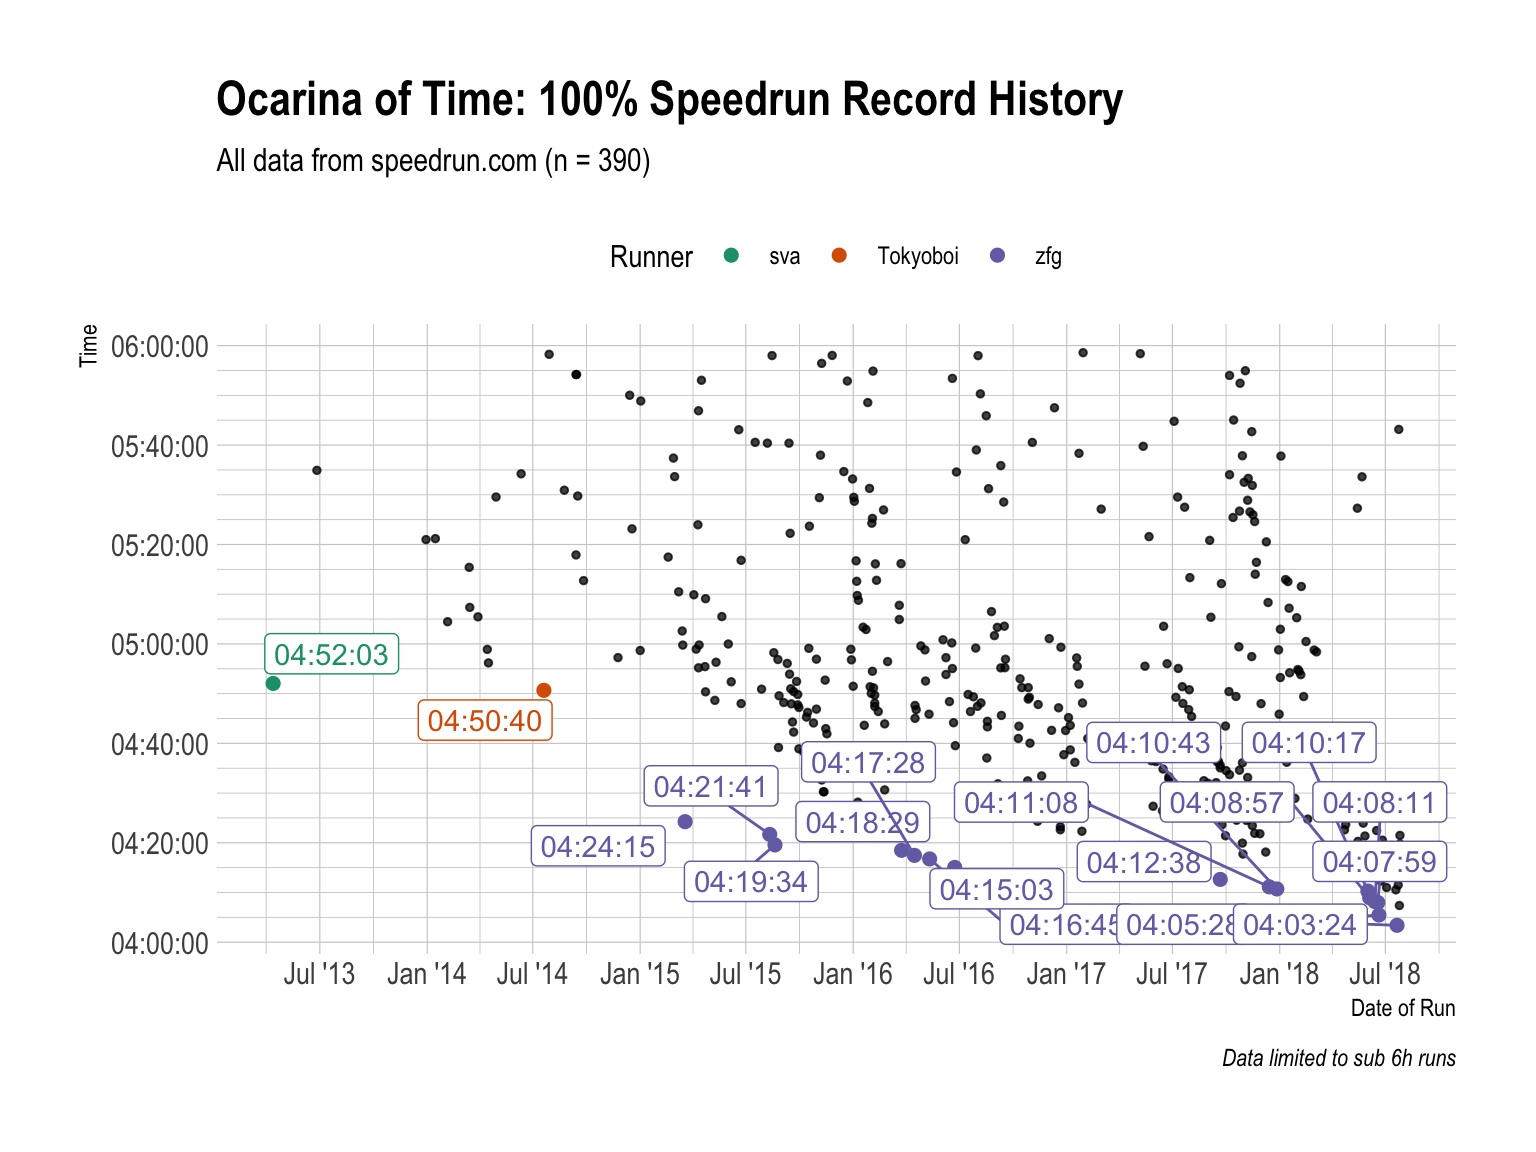
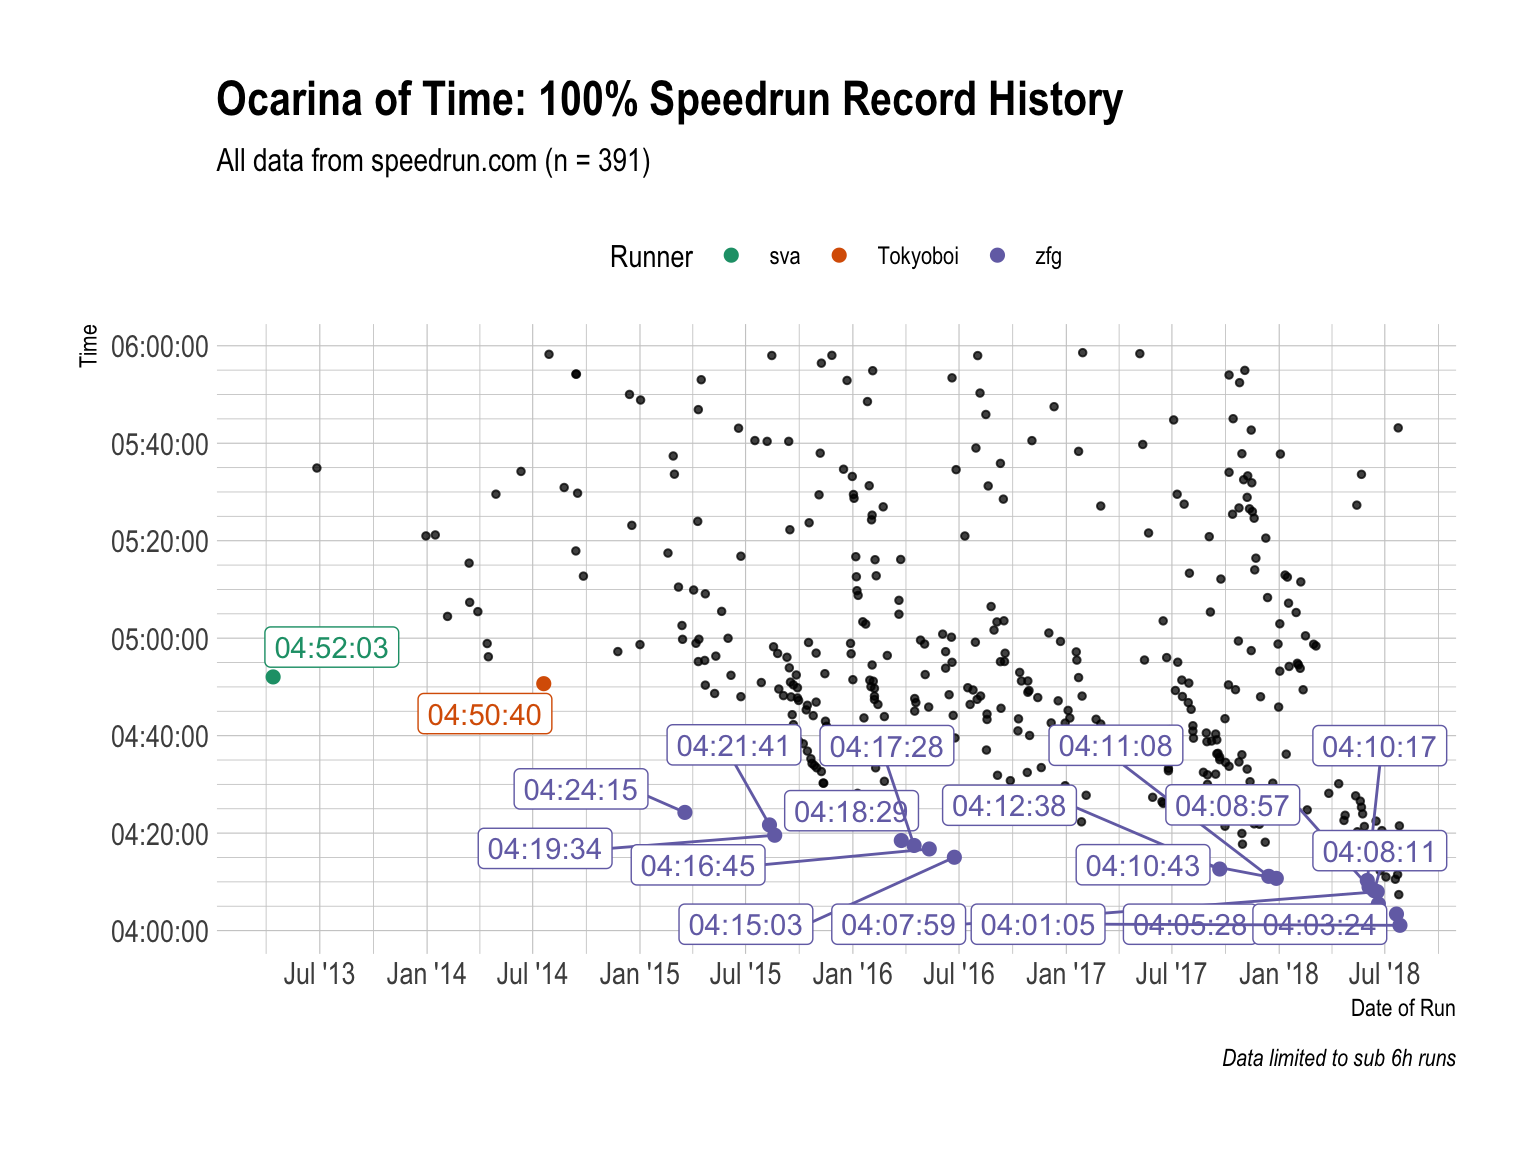
Rebuild everything

diff --git a/docs/articles/ocarina-of-time-100-.html b/docs/articles/ocarina-of-time-100-.html
@@ -134,26 +134,26 @@
 <a class="sourceLine" id="cb3-4" data-line-number="4">oot100 &lt;-<span class="st"> </span><span class="kw"><a href="../reference/get_runs.html">get_runs</a></span>(<span class="dt">game =</span> <span class="st">"j1l9qz1g"</span>, <span class="dt">category =</span> <span class="st">"q255jw2o"</span>, <span class="dt">max =</span> <span class="ot">Inf</span>)</a></code></pre></div>
 <p>Note that I’m useing <code>max = Inf</code> to make sure I get <em>all</em> the runs.</p>
 <div class="sourceCode" id="cb4"><pre class="sourceCode r"><code class="sourceCode r"><a class="sourceLine" id="cb4-1" data-line-number="1"><span class="kw">str</span>(oot100)</a>
-<a class="sourceLine" id="cb4-2" data-line-number="2"><span class="co">#&gt; Classes 'tbl_df', 'tbl' and 'data.frame':    498 obs. of  22 variables:</span></a>
-<a class="sourceLine" id="cb4-3" data-line-number="3"><span class="co">#&gt;  $ id             : chr  "mr8k6k2y" "z51jrdnm" "z03591ez" "yvj63ney" ...</span></a>
-<a class="sourceLine" id="cb4-4" data-line-number="4"><span class="co">#&gt;  $ weblink        : chr  "https://www.speedrun.com/oot/run/mr8k6k2y" "https://www.speedrun.com/oot/run/z51jrdnm" "https://www.speedrun.com/oot/run/z03591ez" "https://www.speedrun.com/oot/run/yvj63ney" ...</span></a>
+<a class="sourceLine" id="cb4-2" data-line-number="2"><span class="co">#&gt; Classes 'tbl_df', 'tbl' and 'data.frame':    499 obs. of  22 variables:</span></a>
+<a class="sourceLine" id="cb4-3" data-line-number="3"><span class="co">#&gt;  $ id             : chr  "y43wqn2z" "mr8k6k2y" "z51jrdnm" "z03591ez" ...</span></a>
+<a class="sourceLine" id="cb4-4" data-line-number="4"><span class="co">#&gt;  $ weblink        : chr  "https://www.speedrun.com/oot/run/y43wqn2z" "https://www.speedrun.com/oot/run/mr8k6k2y" "https://www.speedrun.com/oot/run/z51jrdnm" "https://www.speedrun.com/oot/run/z03591ez" ...</span></a>
 <a class="sourceLine" id="cb4-5" data-line-number="5"><span class="co">#&gt;  $ game           : chr  "j1l9qz1g" "j1l9qz1g" "j1l9qz1g" "j1l9qz1g" ...</span></a>
 <a class="sourceLine" id="cb4-6" data-line-number="6"><span class="co">#&gt;  $ level          : logi  NA NA NA NA NA NA ...</span></a>
 <a class="sourceLine" id="cb4-7" data-line-number="7"><span class="co">#&gt;  $ category       : chr  "q255jw2o" "q255jw2o" "q255jw2o" "q255jw2o" ...</span></a>
-<a class="sourceLine" id="cb4-8" data-line-number="8"><span class="co">#&gt;  $ videos         : chr  "https://youtu.be/maLzD-Ikxoc" "https://youtu.be/wYs40xjSptY" "https://www.youtube.com/watch?v=BnUVK1fpxWo" "https://www.twitch.tv/videos/288576241" ...</span></a>
+<a class="sourceLine" id="cb4-8" data-line-number="8"><span class="co">#&gt;  $ videos         : chr  "https://www.youtube.com/watch?v=8LvwzNnpKXo" "https://youtu.be/maLzD-Ikxoc" "https://youtu.be/wYs40xjSptY" "https://www.youtube.com/watch?v=BnUVK1fpxWo" ...</span></a>
 <a class="sourceLine" id="cb4-9" data-line-number="9"><span class="co">#&gt;  $ status         : chr  "verified" "verified" "verified" "verified" ...</span></a>
-<a class="sourceLine" id="cb4-10" data-line-number="10"><span class="co">#&gt;  $ comment        : chr  "7th dampe" "Really bad, will sub 4:15 soon!" NA "long overdue" ...</span></a>
-<a class="sourceLine" id="cb4-11" data-line-number="11"><span class="co">#&gt;  $ player_id      : chr  "zxz9r448" "1xym2kmx" "v819rrxp" "pj05w98w" ...</span></a>
-<a class="sourceLine" id="cb4-12" data-line-number="12"><span class="co">#&gt;  $ player_url     : chr  "https://www.speedrun.com/user/Fig02" "https://www.speedrun.com/user/MasterMonk1991" "https://www.speedrun.com/user/Marco" "https://www.speedrun.com/user/DJCarmichael" ...</span></a>
-<a class="sourceLine" id="cb4-13" data-line-number="13"><span class="co">#&gt;  $ player_name    : chr  "Fig02" "MasterMonk1991" "Marco" "DJCarmichael" ...</span></a>
+<a class="sourceLine" id="cb4-10" data-line-number="10"><span class="co">#&gt;  $ comment        : chr  "3rd try dampe" "7th dampe" "Really bad, will sub 4:15 soon!" NA ...</span></a>
+<a class="sourceLine" id="cb4-11" data-line-number="11"><span class="co">#&gt;  $ player_id      : chr  "e8e5v680" "zxz9r448" "1xym2kmx" "v819rrxp" ...</span></a>
+<a class="sourceLine" id="cb4-12" data-line-number="12"><span class="co">#&gt;  $ player_url     : chr  "https://www.speedrun.com/user/zfg" "https://www.speedrun.com/user/Fig02" "https://www.speedrun.com/user/MasterMonk1991" "https://www.speedrun.com/user/Marco" ...</span></a>
+<a class="sourceLine" id="cb4-13" data-line-number="13"><span class="co">#&gt;  $ player_name    : chr  "zfg" "Fig02" "MasterMonk1991" "Marco" ...</span></a>
 <a class="sourceLine" id="cb4-14" data-line-number="14"><span class="co">#&gt;  $ player_role    : chr  "user" "user" "user" "user" ...</span></a>
-<a class="sourceLine" id="cb4-15" data-line-number="15"><span class="co">#&gt;  $ player_signup  : POSIXct, format: "2016-02-04 09:35:14" "2017-01-08 21:04:08" ...</span></a>
-<a class="sourceLine" id="cb4-16" data-line-number="16"><span class="co">#&gt;  $ date           : Date, format: "2018-07-26" "2018-07-26" ...</span></a>
-<a class="sourceLine" id="cb4-17" data-line-number="17"><span class="co">#&gt;  $ submitted      : POSIXct, format: "2018-07-27 09:07:17" "2018-07-26 11:09:32" ...</span></a>
-<a class="sourceLine" id="cb4-18" data-line-number="18"><span class="co">#&gt;  $ time_primary   : int  15689 15586 14843 20589 15090 15447 14604 15032 15317 24385 ...</span></a>
-<a class="sourceLine" id="cb4-19" data-line-number="19"><span class="co">#&gt;  $ time_realtime  : int  15689 15586 14843 20589 15090 15447 14604 15032 15317 24385 ...</span></a>
+<a class="sourceLine" id="cb4-15" data-line-number="15"><span class="co">#&gt;  $ player_signup  : POSIXct, format: "2015-02-17 03:55:57" "2016-02-04 09:35:14" ...</span></a>
+<a class="sourceLine" id="cb4-16" data-line-number="16"><span class="co">#&gt;  $ date           : Date, format: "2018-07-27" "2018-07-26" ...</span></a>
+<a class="sourceLine" id="cb4-17" data-line-number="17"><span class="co">#&gt;  $ submitted      : POSIXct, format: "2018-07-28 05:47:32" "2018-07-27 09:07:17" ...</span></a>
+<a class="sourceLine" id="cb4-18" data-line-number="18"><span class="co">#&gt;  $ time_primary   : int  14465 15689 15586 14843 20589 15090 15447 14604 15032 15317 ...</span></a>
+<a class="sourceLine" id="cb4-19" data-line-number="19"><span class="co">#&gt;  $ time_realtime  : int  14465 15689 15586 14843 20589 15090 15447 14604 15032 15317 ...</span></a>
 <a class="sourceLine" id="cb4-20" data-line-number="20"><span class="co">#&gt;  $ time_ingame    : int  0 0 0 0 0 0 0 0 0 0 ...</span></a>
-<a class="sourceLine" id="cb4-21" data-line-number="21"><span class="co">#&gt;  $ time_hms       : 'hms' num  04:21:29 04:19:46 04:07:23 05:43:09 ...</span></a>
+<a class="sourceLine" id="cb4-21" data-line-number="21"><span class="co">#&gt;  $ time_hms       : 'hms' num  04:01:05 04:21:29 04:19:46 04:07:23 ...</span></a>
 <a class="sourceLine" id="cb4-22" data-line-number="22"><span class="co">#&gt;   ..- attr(*, "units")= chr "secs"</span></a>
 <a class="sourceLine" id="cb4-23" data-line-number="23"><span class="co">#&gt;  $ system_platform: chr  "nzelreqp" "nzelreqp" "nzelreqp" "nzelreqp" ...</span></a>
 <a class="sourceLine" id="cb4-24" data-line-number="24"><span class="co">#&gt;  $ system_emulated: logi  FALSE FALSE FALSE FALSE FALSE FALSE ...</span></a>
@@ -182,73 +182,73 @@
 </tr></thead>
 <tbody>
 <tr class="odd">
+<td align="left">04:01:05</td>
+<td align="left">zfg</td>
+<td align="left">2018-07-27</td>
+<td align="left">Wii Virtual Console</td>
+<td align="left">JPN / NTSC</td>
+</tr>
+<tr class="even">
 <td align="left">04:03:24</td>
 <td align="left">zfg</td>
 <td align="left">2018-07-21</td>
 <td align="left">Wii Virtual Console</td>
 <td align="left">JPN / NTSC</td>
 </tr>
-<tr class="even">
+<tr class="odd">
 <td align="left">04:05:28</td>
 <td align="left">zfg</td>
 <td align="left">2018-06-20</td>
 <td align="left">Wii Virtual Console</td>
 <td align="left">JPN / NTSC</td>
 </tr>
-<tr class="odd">
+<tr class="even">
 <td align="left">04:07:23</td>
 <td align="left">Marco</td>
 <td align="left">2018-07-25</td>
 <td align="left">Wii Virtual Console</td>
 <td align="left">JPN / NTSC</td>
 </tr>
-<tr class="even">
+<tr class="odd">
 <td align="left">04:07:59</td>
 <td align="left">zfg</td>
 <td align="left">2018-06-18</td>
 <td align="left">Wii Virtual Console</td>
 <td align="left">JPN / NTSC</td>
 </tr>
-<tr class="odd">
+<tr class="even">
 <td align="left">04:08:11</td>
 <td align="left">zfg</td>
 <td align="left">2018-06-13</td>
 <td align="left">Wii Virtual Console</td>
 <td align="left">JPN / NTSC</td>
 </tr>
-<tr class="even">
+<tr class="odd">
 <td align="left">04:08:57</td>
 <td align="left">zfg</td>
 <td align="left">2018-06-04</td>
 <td align="left">Wii Virtual Console</td>
 <td align="left">JPN / NTSC</td>
 </tr>
-<tr class="odd">
+<tr class="even">
 <td align="left">04:10:17</td>
 <td align="left">zfg</td>
 <td align="left">2018-06-01</td>
 <td align="left">Wii Virtual Console</td>
 <td align="left">JPN / NTSC</td>
 </tr>
-<tr class="even">
+<tr class="odd">
 <td align="left">04:10:32</td>
 <td align="left">Marco</td>
 <td align="left">2018-07-19</td>
 <td align="left">Wii Virtual Console</td>
 <td align="left">JPN / NTSC</td>
 </tr>
-<tr class="odd">
+<tr class="even">
 <td align="left">04:10:43</td>
 <td align="left">zfg</td>
 <td align="left">2017-12-27</td>
 <td align="left">Nintendo 64</td>
-<td align="left">JPN / NTSC</td>
-</tr>
-<tr class="even">
-<td align="left">04:11:00</td>
-<td align="left">Marco</td>
-<td align="left">2018-07-03</td>
-<td align="left">Wii Virtual Console</td>
 <td align="left">JPN / NTSC</td>
 </tr>
 </tbody>

diff --git a/docs/index.html b/docs/index.html
@@ -330,103 +330,103 @@ Let’s get started:</p>
 </tr></thead>
 <tbody>
 <tr class="odd">
+<td align="left">2018-07-28 05:47:32</td>
+<td align="left">04:01:05</td>
+<td align="left"><a href="https://www.speedrun.com/user/zfg" class="uri">https://www.speedrun.com/user/zfg</a></td>
+</tr>
+<tr class="even">
 <td align="left">2018-07-22 03:15:39</td>
 <td align="left">04:03:24</td>
 <td align="left"><a href="https://www.speedrun.com/user/zfg" class="uri">https://www.speedrun.com/user/zfg</a></td>
 </tr>
-<tr class="even">
+<tr class="odd">
 <td align="left">2018-06-21 02:28:51</td>
 <td align="left">04:05:28</td>
 <td align="left"><a href="https://www.speedrun.com/user/zfg" class="uri">https://www.speedrun.com/user/zfg</a></td>
 </tr>
-<tr class="odd">
+<tr class="even">
 <td align="left">2018-07-25 04:07:52</td>
 <td align="left">04:07:23</td>
 <td align="left"><a href="https://www.speedrun.com/user/Marco" class="uri">https://www.speedrun.com/user/Marco</a></td>
 </tr>
-<tr class="even">
+<tr class="odd">
 <td align="left">2018-06-19 05:20:57</td>
 <td align="left">04:07:59</td>
 <td align="left"><a href="https://www.speedrun.com/user/zfg" class="uri">https://www.speedrun.com/user/zfg</a></td>
 </tr>
-<tr class="odd">
+<tr class="even">
 <td align="left">2018-06-14 04:01:53</td>
 <td align="left">04:08:11</td>
 <td align="left"><a href="https://www.speedrun.com/user/zfg" class="uri">https://www.speedrun.com/user/zfg</a></td>
 </tr>
-<tr class="even">
+<tr class="odd">
 <td align="left">2018-06-05 03:41:59</td>
 <td align="left">04:08:57</td>
 <td align="left"><a href="https://www.speedrun.com/user/zfg" class="uri">https://www.speedrun.com/user/zfg</a></td>
 </tr>
-<tr class="odd">
+<tr class="even">
 <td align="left">2018-06-02 03:35:41</td>
 <td align="left">04:10:17</td>
 <td align="left"><a href="https://www.speedrun.com/user/zfg" class="uri">https://www.speedrun.com/user/zfg</a></td>
 </tr>
-<tr class="even">
+<tr class="odd">
 <td align="left">2018-07-20 01:17:13</td>
 <td align="left">04:10:32</td>
 <td align="left"><a href="https://www.speedrun.com/user/Marco" class="uri">https://www.speedrun.com/user/Marco</a></td>
 </tr>
-<tr class="odd">
+<tr class="even">
 <td align="left">2017-12-28 02:05:48</td>
 <td align="left">04:10:43</td>
 <td align="left"><a href="https://www.speedrun.com/user/zfg" class="uri">https://www.speedrun.com/user/zfg</a></td>
 </tr>
-<tr class="even">
+<tr class="odd">
 <td align="left">2018-07-03 02:09:52</td>
 <td align="left">04:11:00</td>
 <td align="left"><a href="https://www.speedrun.com/user/Marco" class="uri">https://www.speedrun.com/user/Marco</a></td>
 </tr>
-<tr class="odd">
+<tr class="even">
 <td align="left">2017-12-14 04:12:51</td>
 <td align="left">04:11:08</td>
 <td align="left"><a href="https://www.speedrun.com/user/zfg" class="uri">https://www.speedrun.com/user/zfg</a></td>
 </tr>
-<tr class="even">
+<tr class="odd">
 <td align="left">2018-07-23 02:36:34</td>
 <td align="left">04:11:30</td>
 <td align="left"><a href="https://www.speedrun.com/user/Bonooru" class="uri">https://www.speedrun.com/user/Bonooru</a></td>
 </tr>
-<tr class="odd">
+<tr class="even">
 <td align="left">2018-06-23 02:17:28</td>
 <td align="left">04:12:17</td>
 <td align="left"><a href="https://www.speedrun.com/user/Marco" class="uri">https://www.speedrun.com/user/Marco</a></td>
 </tr>
-<tr class="even">
+<tr class="odd">
 <td align="left">2018-07-19 23:30:26</td>
 <td align="left">04:15:17</td>
 <td align="left"><a href="https://www.speedrun.com/user/Bonooru" class="uri">https://www.speedrun.com/user/Bonooru</a></td>
 </tr>
-<tr class="odd">
+<tr class="even">
 <td align="left">2018-06-16 04:07:34</td>
 <td align="left">04:15:50</td>
 <td align="left"><a href="https://www.speedrun.com/user/Marco" class="uri">https://www.speedrun.com/user/Marco</a></td>
 </tr>
-<tr class="even">
+<tr class="odd">
 <td align="left">2018-07-23 01:22:52</td>
 <td align="left">04:17:27</td>
 <td align="left"><a href="https://www.speedrun.com/user/dannyb21892" class="uri">https://www.speedrun.com/user/dannyb21892</a></td>
 </tr>
-<tr class="odd">
+<tr class="even">
 <td align="left">2017-10-30 04:09:49</td>
 <td align="left">04:17:44</td>
 <td align="left"><a href="https://www.speedrun.com/user/Marco" class="uri">https://www.speedrun.com/user/Marco</a></td>
 </tr>
-<tr class="even">
+<tr class="odd">
 <td align="left">2017-12-14 22:50:33</td>
 <td align="left">04:18:08</td>
 <td align="left"><a href="https://www.speedrun.com/user/cheese05" class="uri">https://www.speedrun.com/user/cheese05</a></td>
 </tr>
-<tr class="odd">
+<tr class="even">
 <td align="left">2018-07-12 20:26:37</td>
 <td align="left">04:19:26</td>
-<td align="left"><a href="https://www.speedrun.com/user/Bonooru" class="uri">https://www.speedrun.com/user/Bonooru</a></td>
-</tr>
-<tr class="even">
-<td align="left">2018-06-28 17:21:46</td>
-<td align="left">04:19:35</td>
 <td align="left"><a href="https://www.speedrun.com/user/Bonooru" class="uri">https://www.speedrun.com/user/Bonooru</a></td>
 </tr>
 </tbody>
@@ -535,27 +535,27 @@ Let’s get started:</p>
 </tr></thead>
 <tbody>
 <tr class="odd">
-<td align="right">17594</td>
+<td align="right">24385</td>
 <td align="left">JPN / NTSC</td>
-<td align="left">Nintendo 64</td>
+<td align="left">Wii Virtual Console</td>
 </tr>
 <tr class="even">
-<td align="right">15885</td>
-<td align="left">JPN / NTSC</td>
-<td align="left">Nintendo 64</td>
-</tr>
-<tr class="odd">
-<td align="right">18177</td>
-<td align="left">JPN / NTSC</td>
-<td align="left">Nintendo 64</td>
-</tr>
-<tr class="even">
-<td align="right">24422</td>
+<td align="right">16572</td>
 <td align="left">JPN / NTSC</td>
 <td align="left">Wii Virtual Console</td>
 </tr>
 <tr class="odd">
-<td align="right">15714</td>
+<td align="right">19998</td>
+<td align="left">JPN / NTSC</td>
+<td align="left">Nintendo 64</td>
+</tr>
+<tr class="even">
+<td align="right">15631</td>
+<td align="left">JPN / NTSC</td>
+<td align="left">Wii Virtual Console</td>
+</tr>
+<tr class="odd">
+<td align="right">24422</td>
 <td align="left">JPN / NTSC</td>
 <td align="left">Wii Virtual Console</td>
 </tr>
